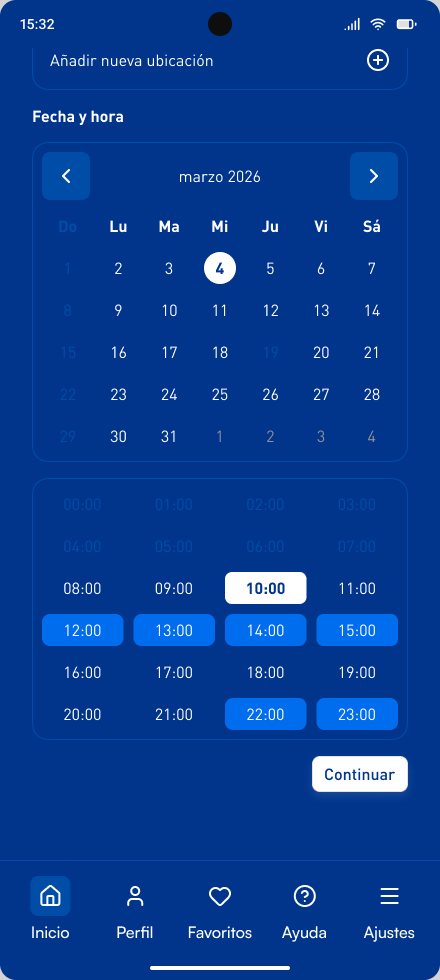
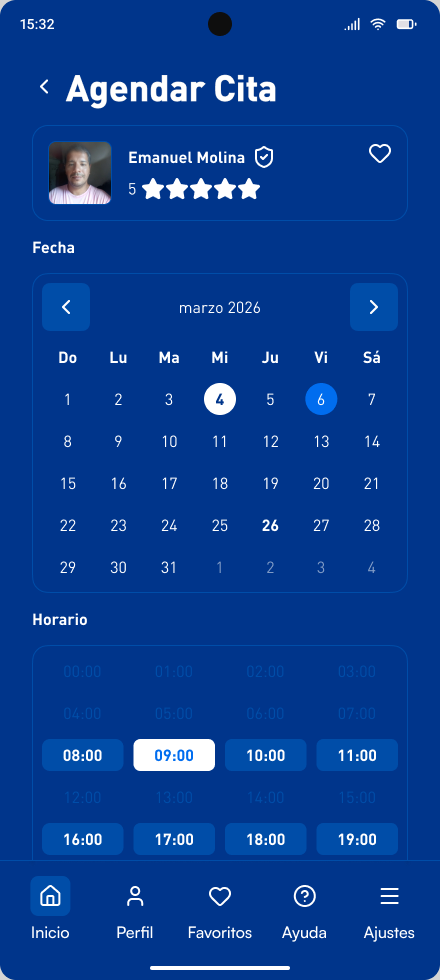
feat(solicitud): Agendar Cita 1:1 Figma 613:1373
Mini-card, Fecha, calendario de 5 semanas y grilla Horario.
Completá tu Solicitud conserva ubicación. QA docs/qa-1a1/solicitud.png.

diff --git a/feature/home/src/main/java/com/cocido/oficios/feature/home/orders/CreateOrderScreen.kt b/feature/home/src/main/java/com/cocido/oficios/feature/home/orders/CreateOrderScreen.kt
@@ -58,6 +58,7 @@ import com.cocido.oficios.domain.model.ClientDomicilio
 import com.cocido.oficios.feature.home.R
 import com.cocido.oficios.feature.home.components.ClientHomeBottomBar
 import com.cocido.oficios.feature.home.components.ClientHomeTab
+import com.cocido.oficios.feature.home.worker.components.WorkerFiveStarRow
 import java.time.LocalDate
 import java.time.LocalTime
 import java.time.format.DateTimeFormatter
@@ -72,6 +73,7 @@ fun CreateOrderScreen(
     selectedTab: ClientHomeTab = ClientHomeTab.INICIO,
     onTabSelected: (ClientHomeTab) -> Unit = {},
     showFavorites: Boolean? = true,
+    today: LocalDate = LocalDate.now(),
 ) {
     val hasUnsavedChanges = uiState is CreateOrderUiState.Success &&
         (uiState.description.isNotBlank() || uiState.selectedDate != null)
@@ -125,6 +127,7 @@ fun CreateOrderScreen(
                         state = state,
                         onEvent = onEvent,
                         onNavigateBack = handleBack,
+                        today = today,
                     )
                 }
             }
@@ -137,9 +140,9 @@ private fun CreateOrderForm(
     state: CreateOrderUiState.Success,
     onEvent: (CreateOrderEvent) -> Unit,
     onNavigateBack: () -> Unit,
+    today: LocalDate,
     modifier: Modifier = Modifier,
 ) {
-    val today = LocalDate.now()
     Column(
         modifier = modifier
             .fillMaxSize()
@@ -158,7 +161,7 @@ private fun CreateOrderForm(
             WorkerMiniCard(state)
         }
 
-        if (state.subRubroOptions.size > 1) {
+        if (!state.hasAgenda && state.subRubroOptions.size > 1) {
             OficiosDropdownField(
                 value = state.subRubroOptions.firstOrNull { it.id == state.selectedSubRubroId }?.name.orEmpty(),
                 options = state.subRubroOptions.map { it.name },
@@ -186,20 +189,22 @@ private fun CreateOrderForm(
             )
         }
 
-        if (state.domicilios.isEmpty() || state.contactos.isEmpty()) {
-            OficiosInlineAlert(message = stringResource(R.string.create_order_profile_required))
-        } else {
-            Text(
-                text = stringResource(R.string.create_order_location),
-                style = MaterialTheme.typography.titleMedium,
-                color = OficiosColorWhite,
-            )
-            LocationRadioList(
-                domicilios = state.domicilios,
-                selectedId = state.selectedDomicilioId,
-                onSelected = { onEvent(CreateOrderEvent.DomicilioSelected(it)) },
-                onAdd = { onEvent(CreateOrderEvent.AddLocation) },
-            )
+        if (!state.hasAgenda) {
+            if (state.domicilios.isEmpty() || state.contactos.isEmpty()) {
+                OficiosInlineAlert(message = stringResource(R.string.create_order_profile_required))
+            } else {
+                Text(
+                    text = stringResource(R.string.create_order_location),
+                    style = MaterialTheme.typography.titleMedium,
+                    color = OficiosColorWhite,
+                )
+                LocationRadioList(
+                    domicilios = state.domicilios,
+                    selectedId = state.selectedDomicilioId,
+                    onSelected = { onEvent(CreateOrderEvent.DomicilioSelected(it)) },
+                    onAdd = { onEvent(CreateOrderEvent.AddLocation) },
+                )
+            }
         }
 
         Text(
@@ -216,6 +221,11 @@ private fun CreateOrderForm(
             onDateSelected = { onEvent(CreateOrderEvent.DateSelected(it)) },
             isDateEnabled = { date ->
                 CreateOrderSchedule.isDateEnabled(date, today, state.workDayKeys)
+            },
+            isDateHighlighted = { date ->
+                state.hasAgenda && state.availableSlots.any { slot ->
+                    slot.start.toLocalDate() == date
+                }
             },
         )
 
@@ -260,18 +270,6 @@ private fun CreateOrderForm(
                 text = stringResource(R.string.create_order_pick_slot),
                 style = MaterialTheme.typography.bodySmall,
                 color = MaterialTheme.colorScheme.error,
-            )
-        }
-
-        if (state.hasAgenda) {
-            OficiosTextField(
-                value = state.description,
-                onValueChange = { onEvent(CreateOrderEvent.DescriptionChanged(it)) },
-                label = stringResource(R.string.create_order_description),
-                placeholder = stringResource(R.string.create_order_description_hint),
-                singleLine = false,
-                minLines = 2,
-                maxLines = 4,
             )
         }
 
@@ -358,7 +356,7 @@ private fun WorkerMiniCard(state: CreateOrderUiState.Success) {
             OficiosAvatar(
                 name = state.workerName,
                 imageUrl = state.workerAvatarUrl,
-                size = OficiosComponentSize.avatarSm,
+                size = OficiosComponentSize.avatarMd,
                 showBorder = true,
                 circular = false,
             )
@@ -381,18 +379,14 @@ private fun WorkerMiniCard(state: CreateOrderUiState.Success) {
                         )
                     }
                 }
-                state.workerRating?.let { rating ->
-                    Text(
-                        text = stringResource(
-                            R.string.create_order_worker_rating,
-                            rating,
-                            state.workerReviewCount ?: 0,
-                        ),
-                        style = MaterialTheme.typography.bodyMedium,
-                        color = OficiosColorSecondaryTextFigma,
-                    )
-                }
+                WorkerFiveStarRow(rating = state.workerRating)
             }
+            Icon(
+                imageVector = ImageVector.vectorResource(OficiosIcons.Heart),
+                contentDescription = null,
+                tint = OficiosColorWhite,
+                modifier = Modifier.size(OficiosComponentSize.iconMd),
+            )
         }
     }
 }

diff --git a/core/designsystem/src/main/java/com/cocido/oficios/core/designsystem/component/calendar/OficiosMonthCalendar.kt b/core/designsystem/src/main/java/com/cocido/oficios/core/designsystem/component/calendar/OficiosMonthCalendar.kt
@@ -49,6 +49,8 @@ enum class HourChipState {
     Available,
     Selected,
     Unavailable,
+    /** Visible y clickable, sin relleno — horas apagadas en Calendario General. */
+    Idle,
 }
 
 private val WEEK_START = DayOfWeek.SUNDAY
@@ -62,6 +64,7 @@ fun OficiosMonthCalendar(
     onDateSelected: (LocalDate) -> Unit,
     modifier: Modifier = Modifier,
     isDateEnabled: (LocalDate) -> Boolean = { true },
+    isDateHighlighted: (LocalDate) -> Boolean = { false },
 ) {
     val locale = Locale.forLanguageTag("es-AR")
     val firstOfMonth = month.atDay(1)
@@ -118,7 +121,9 @@ fun OficiosMonthCalendar(
                 }
             }
         }
-        cells.chunked(7).forEach { week ->
+        cells.chunked(7)
+            .filter { week -> week.any { date -> date.month == month.month } }
+            .forEach { week ->
             Row(
                 modifier = Modifier.fillMaxWidth(),
                 horizontalArrangement = Arrangement.SpaceBetween,
@@ -130,6 +135,7 @@ fun OficiosMonthCalendar(
                     DayCell(
                         day = date.dayOfMonth,
                         selected = selected,
+                        highlighted = inMonth && isDateHighlighted(date),
                         enabled = enabled,
                         inMonth = inMonth,
                         onClick = { onDateSelected(date) },
@@ -205,12 +211,14 @@ private fun MonthNavButton(
 private fun DayCell(
     day: Int,
     selected: Boolean,
+    highlighted: Boolean,
     enabled: Boolean,
     inMonth: Boolean,
     onClick: () -> Unit,
 ) {
     val textColor = when {
         selected -> OficiosColorBackground
+        highlighted -> OficiosColorWhite
         !inMonth || !enabled -> if (!inMonth) OficiosColorOutlineFill else OficiosColorDisabledText
         else -> OficiosColorWhite
     }
@@ -219,13 +227,23 @@ private fun DayCell(
         modifier = Modifier
             .size(OficiosComponentSize.calendarDayCell)
             .clip(CircleShape)
-            .then(if (selected) Modifier.background(OficiosColorWhite) else Modifier)
+            .then(
+                when {
+                    selected -> Modifier.background(OficiosColorWhite)
+                    highlighted -> Modifier.background(OficiosColorAction)
+                    else -> Modifier
+                },
+            )
             .then(if (clickable) Modifier.clickable(onClick = onClick) else Modifier),
         contentAlignment = Alignment.Center,
     ) {
         Text(
             text = day.toString(),
-            style = if (selected) MaterialTheme.typography.titleMedium else MaterialTheme.typography.bodyLarge,
+            style = if (selected || highlighted) {
+                MaterialTheme.typography.titleMedium
+            } else {
+                MaterialTheme.typography.bodyLarge
+            },
             color = textColor,
             textAlign = TextAlign.Center,
         )
@@ -242,7 +260,9 @@ private fun HourChip(
     val (bg, fg) = when (state) {
         HourChipState.Selected -> OficiosColorWhite to OficiosColorBackground
         HourChipState.Available -> OficiosColorAction to OficiosColorWhite
-        HourChipState.Unavailable -> OficiosColorOutlineFill.copy(alpha = 0f) to OficiosColorOutlineFill
+        HourChipState.Unavailable,
+        HourChipState.Idle,
+        -> OficiosColorOutlineFill.copy(alpha = 0f) to OficiosColorOutlineFill
     }
     Box(
         modifier = modifier

diff --git a/feature/home/src/main/java/com/cocido/oficios/feature/home/worker/components/WorkerProfileHeader.kt b/feature/home/src/main/java/com/cocido/oficios/feature/home/worker/components/WorkerProfileHeader.kt
@@ -175,7 +175,7 @@ private fun LabeledValue(label: String, value: String) {
 }
 
 @Composable
-internal fun WorkerFiveStarRow(rating: Float?) {
+fun WorkerFiveStarRow(rating: Float?) {
     val ratingCd = if (rating != null) {
         stringResource(DsR.string.ds_worker_rating, rating)
     } else {
